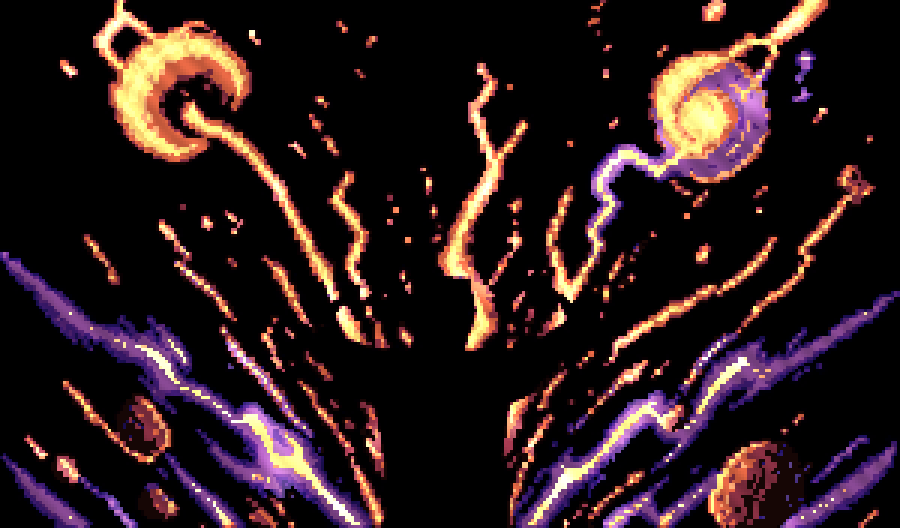
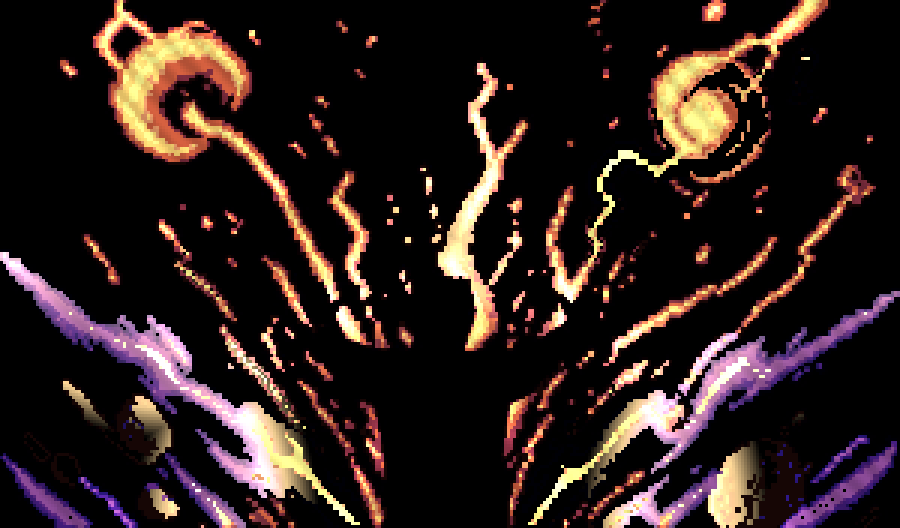
Cosmic Summoning: growth-over-time animation (bolts draw outward + sweep)

diff --git a/cosmic-summoning.html b/cosmic-summoning.html
@@ -12,70 +12,70 @@
 <body>
   <canvas id="screen"></canvas>
 <script>
-/* The artwork is the reference image, trimmed + snapped to a 300x176
-   pixel grid + quantised to a 16-colour retro palette (static base).
-   Animation: per-frame the ENERGY pixels (gold tendrils vs violet streaks)
-   are modulated by traveling brightness waves that surge OUTWARD from the
-   orbs / base — so the bolts grow & pulse like electricity — plus a fast
-   flicker for crackle and a white-hot bleed on each wave crest. */
+/* Static base = the reference image, trimmed + snapped to 300x176 and
+   quantised to a 16-colour retro palette.  Animation = pure per-pixel light:
+     1) GROWTH: on load the bolts draw OUTWARD from the orbs + base (reveal
+        front with a bright leading tip) until fully grown.
+     2) ONGOING: repeating energy waves sweep outward + a traveling surge,
+        fast flicker, and white-hot crests — so it keeps growing/pulsing. */
[1 lines of base64/hex data omitted]
-const IW=300, IH=176;
-const cvs=document.getElementById("screen");
-cvs.width=IW; cvs.height=IH;
+const IW=300, IH=176, N=IW*IH;
+const cvs=document.getElementById("screen"); cvs.width=IW; cvs.height=IH;
 const ctx=cvs.getContext("2d"); ctx.imageSmoothingEnabled=false;
 
-const im=new Image();
-im.onload=init; im.src=SRC;
+// tunables
+const GROW=4.0, FEATHER=9.0, TIPW=10.0, BW=12.0, SWEEP=70.0;
 
-let base, out, lum, phase, purp, roff;
-const N=IW*IH;
+const im=new Image(); im.onload=init; im.src=SRC;
+let base, out, lum, phase, purp, roff, maxD=1, t0=0;
 
 function init(){
   const off=document.createElement("canvas"); off.width=IW; off.height=IH;
   const octx=off.getContext("2d"); octx.drawImage(im,0,0,IW,IH);
-  base=octx.getImageData(0,0,IW,IH);
-  out=ctx.createImageData(IW,IH);
+  base=octx.getImageData(0,0,IW,IH); out=ctx.createImageData(IW,IH);
   lum=new Float32Array(N); phase=new Float32Array(N); purp=new Uint8Array(N); roff=new Float32Array(N);
-
-  const emW=[[60,40],[238,38],[150,IH-1]];   // warm emitters: 2 orbs + base
-  const emP=[[0,IH-1],[IW-1,IH-1]];          // violet emitters: bottom corners
+  const emW=[[60,40],[238,38],[150,IH-1]], emP=[[0,IH-1],[IW-1,IH-1]];
   const d=base.data;
   for(let y=0;y<IH;y++) for(let x=0;x<IW;x++){
     const i=y*IW+x, r=d[i*4],g=d[i*4+1],b=d[i*4+2];
     lum[i]=Math.max(r,g,b);
-    const isP = b>r+6; purp[i]=isP?1:0;
-    const em = isP?emP:emW;
-    let md=1e9; for(let k=0;k<em.length;k++){ const dd=Math.hypot(x-em[k][0], y-em[k][1]); if(dd<md) md=dd; }
-    phase[i]=md;
-    roff[i]=((x*131+y*57)%1000)/1000;
+    const isP=b>r+6; purp[i]=isP?1:0;
+    const em=isP?emP:emW; let md=1e9;
+    for(let k=0;k<em.length;k++){ const dd=Math.hypot(x-em[k][0],y-em[k][1]); if(dd<md) md=dd; }
+    phase[i]=md; roff[i]=((x*131+y*57)%1000)/1000;
+    if(lum[i]>30 && md<900 && md>maxD) maxD=md;
   }
-  requestAnimationFrame(frame);
+  requestAnimationFrame(loop);
 }
+const clamp=(v,a,b)=>v<a?a:v>b?b:v;
 
-function frame(ts){
-  const t=ts*0.001;
+function loop(ts){
+  if(!t0) t0=ts; const t=(ts-t0)*0.001;
   const d=base.data, o=out.data;
   const kW=2*Math.PI/42, kP=2*Math.PI/55;
+  const grow=clamp(t/GROW,0,1), ease=1-(1-grow)*(1-grow);
+  const Rfront=ease*maxD*1.05, growing=t<GROW;
+  const sweepFront=(t*SWEEP)%(maxD+60);
   for(let i=0;i<N;i++){
     let r=d[i*4], g=d[i*4+1], b=d[i*4+2];
     const L=lum[i];
     if(L>30){
-      const isP=purp[i];
-      const k=isP?kP:kW, sp=isP?2.2:3.0;
-      const w=Math.sin(phase[i]*k - t*sp);
-      const crest=w>0?w:0;
-      let f = 1 + 0.55*crest*crest;                       // traveling electric surge
-      f *= 1 + 0.10*Math.sin(t*1.3 + (isP?1.5:0));         // slow global pulse
-      f *= 0.9 + 0.2*(Math.sin(t*37 + roff[i]*100)*0.5+0.5); // fast crackle flicker
-      r=r*f; g=g*f; b=b*f;
-      if(crest>0.8){ const m=(crest-0.8)*2.5;             // white-hot core on the crest
-        r+=(255-r)*m*0.5; g+=(255-g)*m*0.4; b+=(255-b)*m*0.3; }
+      const isP=purp[i], k=isP?kP:kW, sp=isP?2.2:3.0, ph=phase[i];
+      const reveal=clamp((Rfront-ph)/FEATHER,0,1);
+      const crest=Math.max(0,Math.sin(ph*k - t*sp)), surge=1+0.5*crest*crest;
+      const flick=0.9+0.2*(Math.sin(t*37+roff[i]*100)*0.5+0.5);
+      const mul=reveal*surge*flick;
+      r*=mul; g*=mul; b*=mul;
+      const band=Math.exp(-((ph-sweepFront)*(ph-sweepFront))/(2*BW*BW))*reveal;
+      const tip=growing?clamp(1-Math.abs(Rfront-ph)/TIPW,0,1):0;
+      const add=255*(0.7*band+0.95*tip);
+      r+=add; g+=add*0.85; b+=add*0.6;
       if(r>255)r=255; if(g>255)g=255; if(b>255)b=255;
     }
     o[i*4]=r; o[i*4+1]=g; o[i*4+2]=b; o[i*4+3]=255;
   }
   ctx.putImageData(out,0,0);
-  requestAnimationFrame(frame);
+  requestAnimationFrame(loop);
 }
 </script>
 </body>
